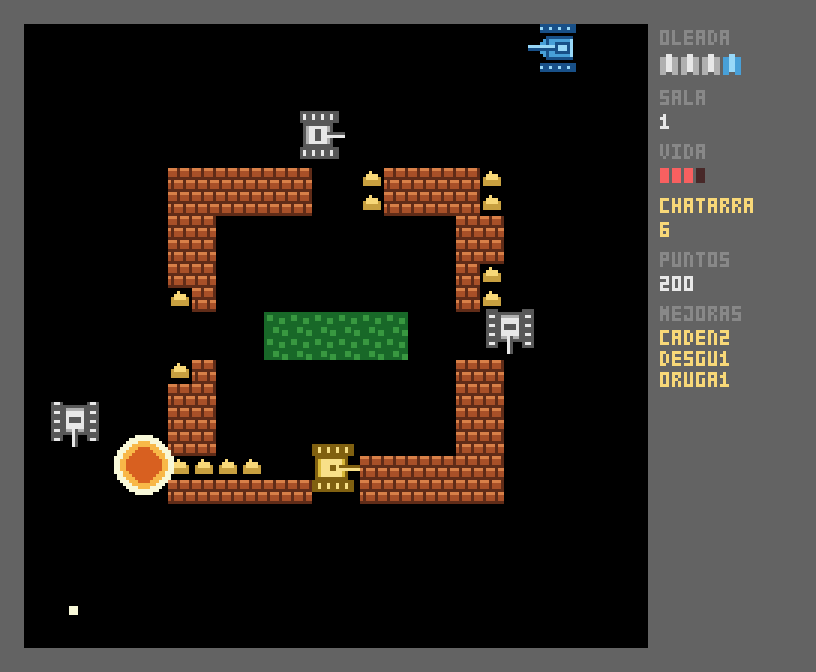
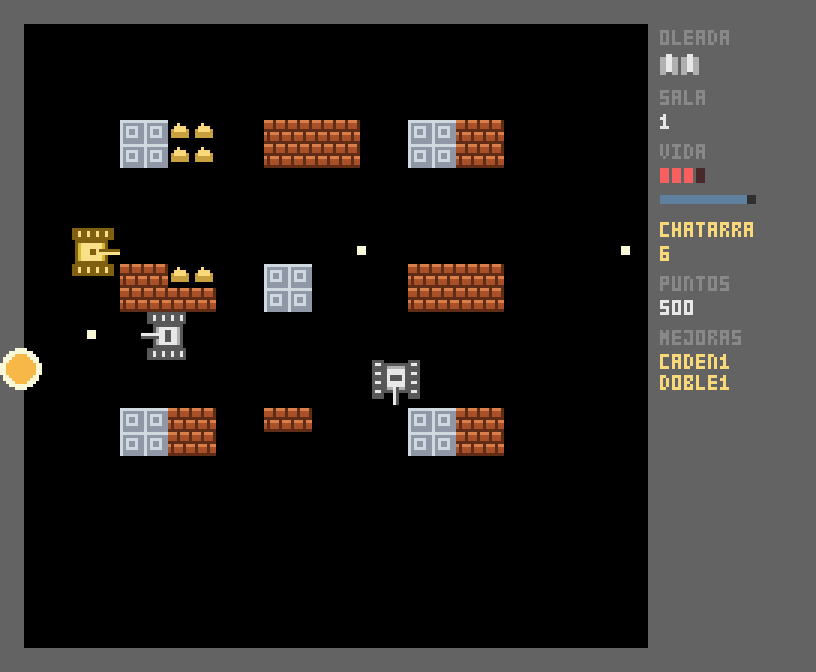
feat(arena): disparo manual con espacio, mas lento si disparas en marcha
- parado sigue el disparo automatico; espacio dispara tambien en movimiento
- disparar en marcha alarga la recarga x1.6 (ARENA_MOVING_FIRE_PENALTY, a 1.0
  se desactiva la penalizacion), asi huir disparando cuesta cadencia en vez
  de ser gratis
- el disparo se lee cada fotograma, no en el evento de tecla, para poder
  mantener el boton pulsado
- en modo obra el espacio sigue siendo construir, no disparar
- barra de recarga del canon en el marcador, debajo de la vida

Tests: 23 (3 nuevos: penalizacion en marcha, cadencia normal parado, y que el
modo obra no dispara).

Claude-Session: https://claude.ai/code/session_01LHyiVTb6afaJ8hkMxyrNtR

diff --git a/tank_scrap/game.py b/tank_scrap/game.py
@@ -12,7 +12,8 @@ from . import arena
 from . import field as fld
 from . import levels, pixfont, sprites, storage
 from .constants import (
-    ARENA_AUTOFIRE, ARENA_PLAYER_HP, BLACK, BUILD_COOLDOWN, BUILD_RANGE_TILES, COST_BRICK,
+    ARENA_AUTOFIRE, ARENA_MANUAL_FIRE, ARENA_MOVING_FIRE_PENALTY,
+    ARENA_PLAYER_HP, BLACK, BUILD_COOLDOWN, BUILD_RANGE_TILES, COST_BRICK,
     COST_STEEL, DIR_VECTORS, DOWN, ENEMIES_ON_FIELD, ENEMY_COLORS,
     ENEMY_SPAWN_DELAY, FIELD_PX, FIELD_TILES, FPS, GHOST_NO, GHOST_OK,
     GREY_FRAME, HUD_DIM, LEFT, MARGIN_PX, PLAYER_A, PLAYER_B, PLAYER_LIVES,
@@ -210,8 +211,8 @@ class Game:
                 self._demolish()
             return
         if key == pygame.K_SPACE:
-            if self.mode == ARENA and ARENA_AUTOFIRE:
-                return          # en arena disparas al pararte, no con espacio
+            if self.mode == ARENA:
+                return          # en arena el disparo se lee cada fotograma
             self._player_fire()
 
     def _handle_offer_key(self, key):
@@ -292,7 +293,13 @@ class Game:
         else:
             self._say("no es tuyo")
 
-    def _player_fire(self, force=True):
+    def _player_fire(self, force=True, penalty=1.0):
+        """Dispara si cabe otra bala y el canon esta cargado.
+
+        force=True se salta la cadencia (campana, donde el limite es el numero
+        de balas en vuelo). penalty alarga la recarga: disparar en marcha
+        cuesta mas que hacerlo parado.
+        """
         p = self.player
         mine = [b for b in self.bullets if b.owner == "player" and not b.dead]
         if len(mine) >= p.max_bullets:
@@ -303,7 +310,7 @@ class Game:
         self.bullets.append(Bullet(mx, my, p.direction, p.bullet_speed, "player",
                                    pierce_brick=p.pierce_brick,
                                    bounces=p.bounces))
-        p.fire_cd = p.fire_interval
+        p.fire_cd = p.fire_interval * penalty
         return True
 
     def _say(self, text, seconds=1.1):
@@ -379,10 +386,15 @@ class Game:
             elif p.slide > 0:
                 p.slide -= dt
                 p.step(p.direction, self.field, self.enemies, dt, factor=0.7)
-        # Disparo automatico al estar quieto, como en Archero: moverse y
-        # disparar son decisiones opuestas.
-        if self.mode == ARENA and ARENA_AUTOFIRE and not moving:
-            self._player_fire(force=False)
+        # Arena: parado disparas solo (como en Archero) y con espacio puedes
+        # disparar tambien en marcha, pero la recarga se alarga.
+        if self.mode == ARENA and not self.build_mode:
+            if ARENA_MANUAL_FIRE and keys[pygame.K_SPACE]:
+                self._player_fire(force=False,
+                                  penalty=ARENA_MOVING_FIRE_PENALTY if moving
+                                  else 1.0)
+            elif ARENA_AUTOFIRE and not moving:
+                self._player_fire(force=False)
 
         # recoger chatarra (el iman la coge a distancia)
         reach = p.rect.inflate(p.magnet, p.magnet)
@@ -615,7 +627,9 @@ class Game:
         yy += 2
         for line in ("FLECHAS ELEGIR    ENTER JUGAR",
                      "B MODO OBRA   X RECUPERAR",
-                     "EN ARENA DISPARAS AL PARARTE"):
+                     "ARENA: PARADO DISPARAS SOLO",
+                     "ESPACIO TAMBIEN, PERO EN MARCHA",
+                     "LA RECARGA ES MAS LENTA"):
             pixfont.draw_centered(s, line, cx, yy, HUD_DIM)
             yy += 8
 
@@ -805,7 +819,14 @@ class Game:
             for i in range(p.max_hp):
                 col = (248, 96, 96) if i < p.hp else (72, 40, 40)
                 pygame.draw.rect(s, col, (px + i * 4, y, 3, 5))
-            y += 10
+            y += 9
+            # barra de recarga: lleno = canon listo
+            bar_w = 32
+            ready = 1.0 - min(1.0, p.fire_cd / max(0.01, p.fire_interval))
+            pygame.draw.rect(s, (48, 48, 48), (px, y, bar_w, 3))
+            pygame.draw.rect(s, (152, 216, 248) if ready >= 1.0 else (96, 128, 160),
+                             (px, y, int(bar_w * ready), 3))
+            y += 9
         else:
             pixfont.draw(s, "TANQUES", (px, y), HUD_DIM)
             y += 8

diff --git a/tests/test_smoke.py b/tests/test_smoke.py
@@ -194,10 +194,37 @@ def test_disparo_automatico_solo_al_estar_quieto():
     assert len([b for b in g.bullets if b.owner == "player"]) == 1
 
 
-def test_espacio_no_dispara_en_arena():
+def test_el_keydown_de_espacio_no_dispara_en_arena():
+    """En arena el disparo se lee cada fotograma, no en el evento de tecla."""
     g = arena_game()
     g._handle_play_key(pygame.K_SPACE)
     assert not g.bullets
+
+
+def test_espacio_dispara_en_marcha_pero_recarga_mas_lenta():
+    from tank_scrap.constants import ARENA_MOVING_FIRE_PENALTY
+    g = arena_game()
+    g.player.fire_cd = 0.0
+    g._update_player(1.0 / FPS, _KeyProxy({pygame.K_RIGHT: True,
+                                           pygame.K_SPACE: True}))
+    disparos = [b for b in g.bullets if b.owner == "player"]
+    assert len(disparos) == 1
+    esperado = g.player.fire_interval * ARENA_MOVING_FIRE_PENALTY
+    assert abs(g.player.fire_cd - esperado) < 1e-6
+
+    # parado, la misma tecla recarga a cadencia normal
+    g2 = arena_game()
+    g2.player.fire_cd = 0.0
+    g2._update_player(1.0 / FPS, _KeyProxy({pygame.K_SPACE: True}))
+    assert abs(g2.player.fire_cd - g2.player.fire_interval) < 1e-6
+
+
+def test_en_modo_obra_el_espacio_construye_y_no_dispara():
+    g = arena_game()
+    g.build_mode = True
+    g.player.fire_cd = 0.0
+    g._update_player(1.0 / FPS, _KeyProxy({pygame.K_SPACE: True}))
+    assert not [b for b in g.bullets if b.owner == "player"]
 
 
 def test_mejora_se_aplica_y_se_apunta():

diff --git a/tank_scrap/constants.py b/tank_scrap/constants.py
@@ -47,6 +47,10 @@ SCRAP_START = 4                       # con lo que arrancas cada partida
 # --- Modo ARENA ------------------------------------------------------------
 ARENA_PLAYER_HP = 4                   # el tanque aguanta varios impactos
 ARENA_AUTOFIRE = True                 # disparas solo al estar quieto
+ARENA_MANUAL_FIRE = True              # ademas puedes disparar con espacio
+# Disparar en marcha desestabiliza el canon: misma bala, recarga mas larga.
+# A 1.0 el movimiento deja de tener penalizacion.
+ARENA_MOVING_FIRE_PENALTY = 1.6
 
 # --- Puntuacion ------------------------------------------------------------
 SCORE_BY_KIND = {"basic": 100, "fast": 200, "power": 300, "armor": 400}

diff --git a/README.md b/README.md
@@ -44,9 +44,13 @@ espacio.
 Salas encadenadas, sin águila que defender: lo que se pierde al morir es la
 *run* entera.
 
-- **Disparas solo al estar quieto.** Moverte y disparar son decisiones
-  opuestas, y con un tanque se lee muy bien: pararte en campo abierto es
-  ofrecerte de blanco.
+- **Parado disparas solo.** Moverte y disparar son decisiones opuestas, y con
+  un tanque se lee muy bien: pararte en campo abierto es ofrecerte de blanco.
+- **Y puedes disparar a mano con espacio, también en marcha** — misma bala,
+  pero la recarga se alarga ×1.6, porque el cañón va inestable. Huir
+  disparando es posible y cuesta cadencia; la barra de recarga del marcador
+  te dice cuándo vuelve a estar cargado. (Ajustable en
+  `constants.ARENA_MOVING_FIRE_PENALTY`; a `1.0` el movimiento deja de penalizar.)
 - **Barra de vida** (4 impactos de base) en vez de morir de un toque.
 - Al limpiar una sala eliges **1 de 3 mejoras**: doble cañón, cadencia, bala
   veloz, blindaje, orugas, perforante, rebote, desguace, imán, taller,
@@ -98,6 +102,7 @@ python3 -m tank_scrap --arena     # directo a la arena
 | Espacio (en obra) | poner ladrillo — cuesta **1** de chatarra |
 | Shift o `E` (en obra) | poner acero — cuesta **6** |
 | `X` (en obra) | recuperar un muro **tuyo** y recobrar su coste |
+| Espacio (Arena) | disparar a mano; en marcha alarga la recarga |
 | `1` `2` `3` / flechas + enter | elegir mejora (Arena) |
 | `R` | volver a tirar la oferta de mejoras — cuesta 3 de chatarra |
 | `P` | pausa |
